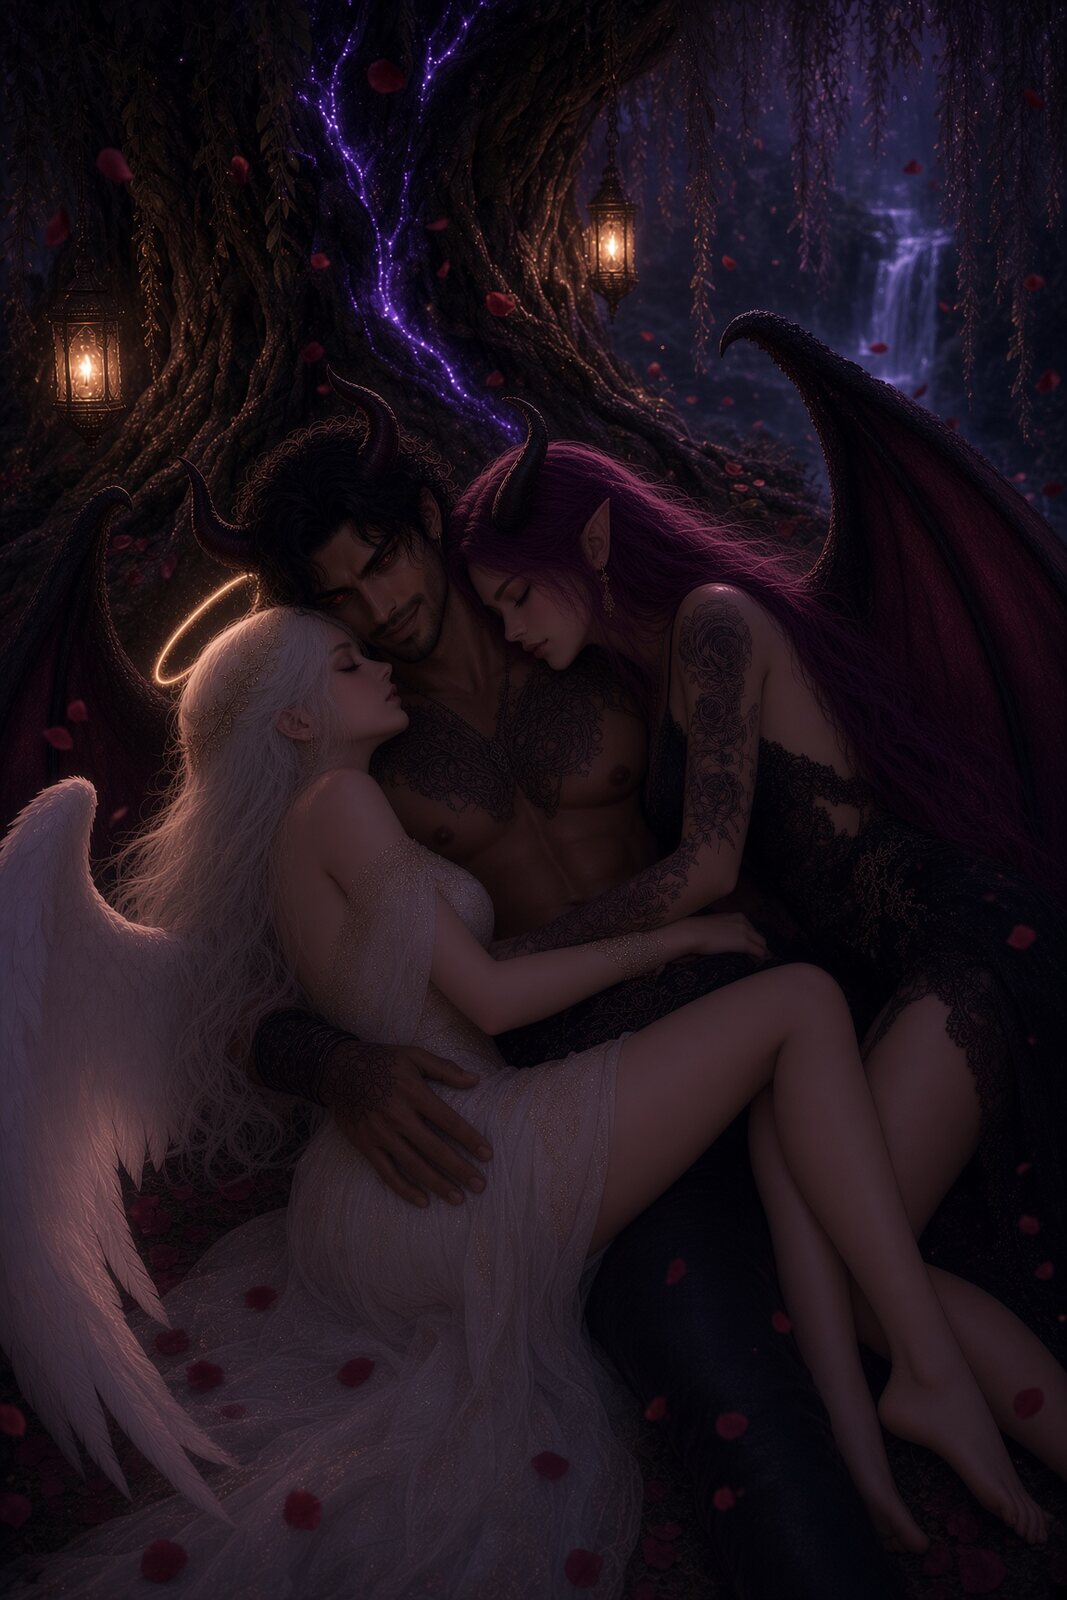
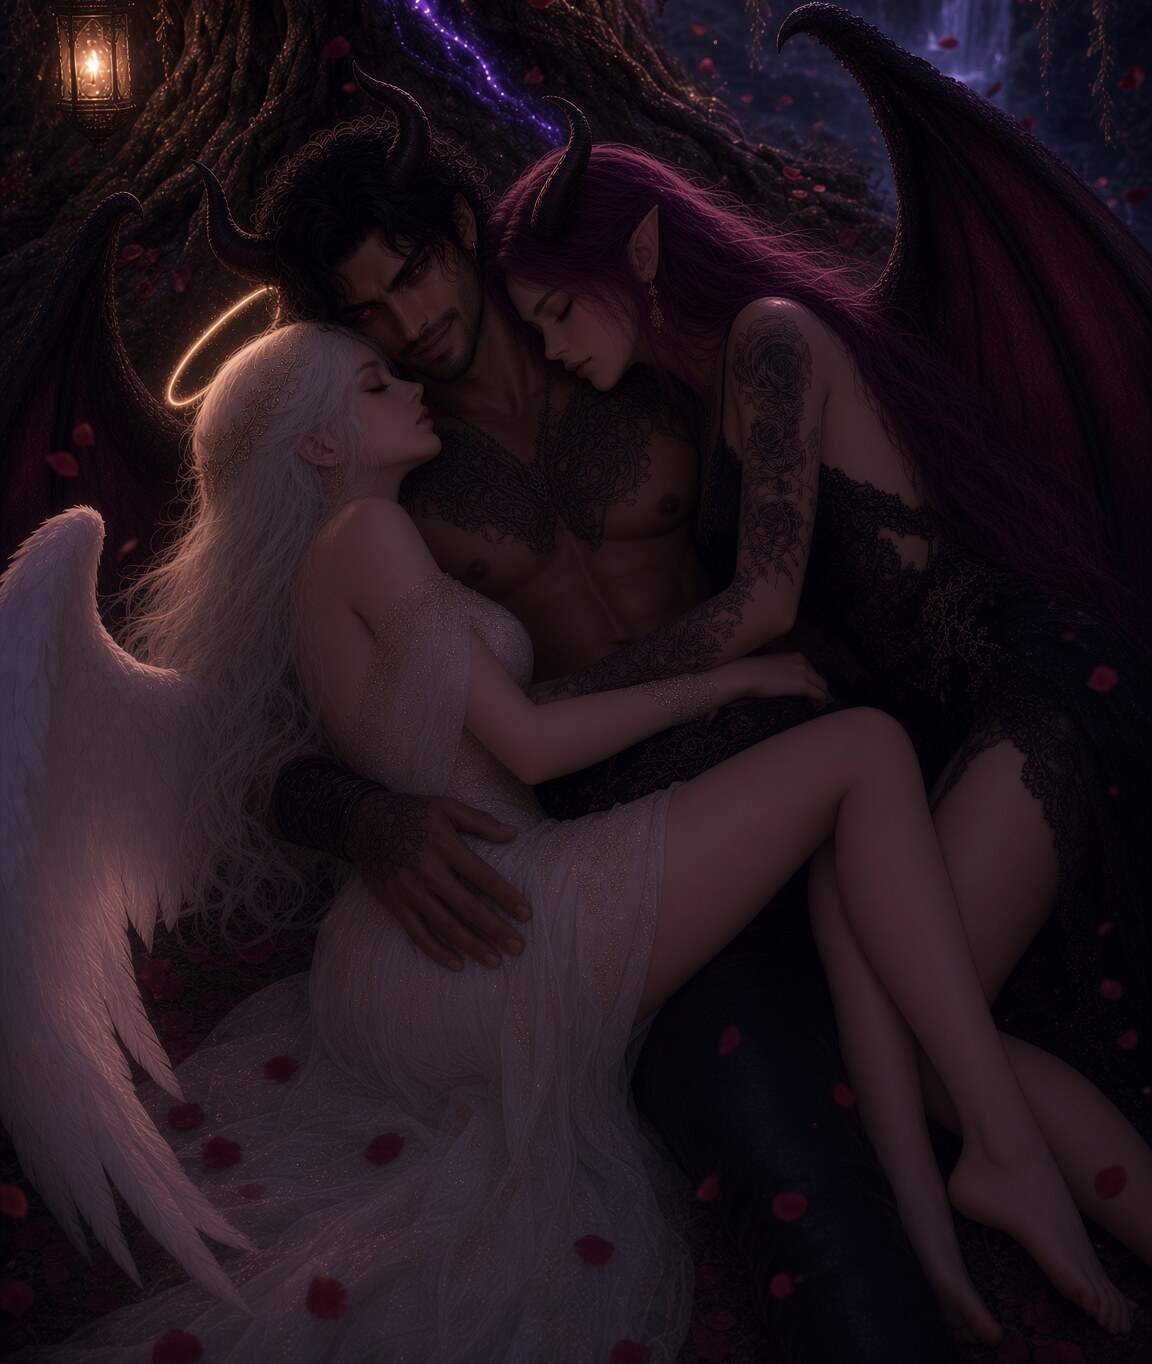
Replace Chapter VII plate
Use After.png from the Desktop original for After.

diff --git a/part1/chapter-07.html b/part1/chapter-07.html
@@ -22,7 +22,7 @@
   <div class="bound">
     <main class="spread">
       <figure class="leaf-art">
-        <img src="../images/part1/ch07.jpg" alt="After" />
+        <img src="../images/part1/ch07.jpg?v=2" alt="After" />
       </figure>
       <article class="leaf-text">
         <p class="roman">Chapter VII</p>
